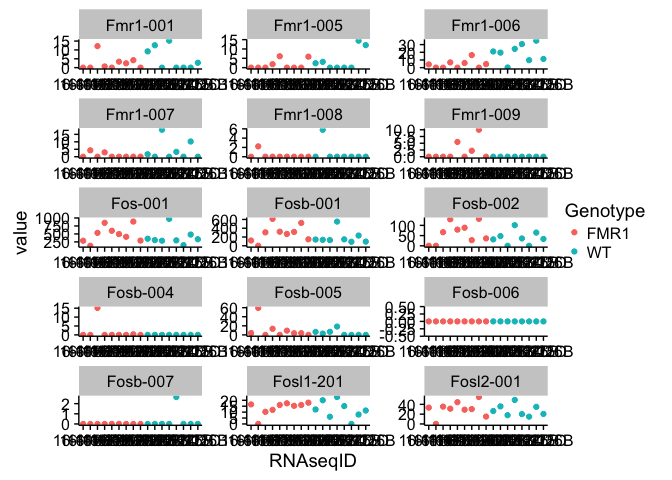
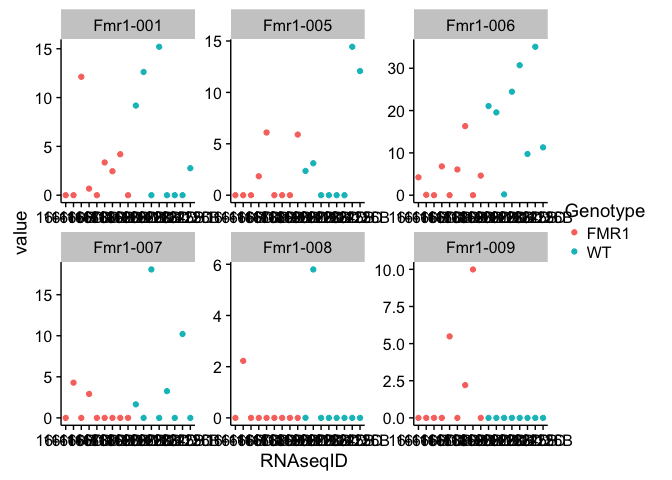
fmr1 summary

diff --git a/bin/FMR1.md b/bin/FMR1.md
@@ -621,7 +621,7 @@ fmr1
 
     fmr1 <- melt(fmr1, id=c("transcript"))
     fmr1 <- fmr1 %>%
-      dplyr::filter(grepl("Fmr1|Fos", transcript)) %>%
+      dplyr::filter(grepl("Fmr1", transcript)) %>%
       dplyr::filter(!grepl("Fmr1nb", transcript))
     fmr1 <- rename(fmr1, c("variable"="RNAseqID"))
     fmr1 <- join(fmr1, Traits, by = "RNAseqID", type = "full", match = "all")
@@ -794,19 +794,23 @@ in more details.
     ## [1] see 'cooksCutoff' argument of ?results
     ## [2] see 'independentFiltering' argument of ?results
 
-    head(resOrdered)
+    head(resOrdered,10)
 
     ## log2 fold change (MAP): Genotype FMR1 vs WT 
     ## Wald test p-value: Genotype FMR1 vs WT 
-    ## DataFrame with 6 rows and 6 columns
-    ##            baseMean log2FoldChange      lfcSE      stat       pvalue
-    ##           <numeric>      <numeric>  <numeric> <numeric>    <numeric>
-    ## Ccnd2      11.70261     -1.1331652 0.14396778 -7.870964 3.519179e-15
-    ## Fmr1       15.63877     -0.8246208 0.14496042 -5.688593 1.280906e-08
-    ## Serpina3n 133.91021     -0.5146472 0.10985625 -4.684733 2.803248e-06
-    ## Cry2      255.05935      0.4265061 0.09267342  4.602248 4.179552e-06
-    ## Faim2     885.97410     -0.2096753 0.05105200 -4.107093 4.006703e-05
-    ## Nbas       88.81008      0.5056638 0.12203019  4.143760 3.416575e-05
+    ## DataFrame with 10 rows and 6 columns
+    ##             baseMean log2FoldChange      lfcSE      stat       pvalue
+    ##            <numeric>      <numeric>  <numeric> <numeric>    <numeric>
+    ## Ccnd2       11.70261     -1.1331652 0.14396778 -7.870964 3.519179e-15
+    ## Fmr1        15.63877     -0.8246208 0.14496042 -5.688593 1.280906e-08
+    ## Serpina3n  133.91021     -0.5146472 0.10985625 -4.684733 2.803248e-06
+    ## Cry2       255.05935      0.4265061 0.09267342  4.602248 4.179552e-06
+    ## Faim2      885.97410     -0.2096753 0.05105200 -4.107093 4.006703e-05
+    ## Nbas        88.81008      0.5056638 0.12203019  4.143760 3.416575e-05
+    ## Plat        60.08070     -0.4843732 0.11722179 -4.132109 3.594499e-05
+    ## Arel1      126.96366      0.3653896 0.09040251  4.041808 5.304056e-05
+    ## Sstr3       30.99935     -0.5813751 0.14425901 -4.030078 5.575835e-05
+    ## Ctsb      1093.47092     -0.2720316 0.06848536 -3.972113 7.123788e-05
     ##                   padj
     ##              <numeric>
     ## Ccnd2     5.608164e-11
@@ -815,6 +819,10 @@ in more details.
     ## Cry2      1.665134e-02
     ## Faim2     9.121545e-02
     ## Nbas      9.121545e-02
+    ## Plat      9.121545e-02
+    ## Arel1     9.872945e-02
+    ## Sstr3     9.872945e-02
+    ## Ctsb      1.135247e-01
 
     sum(res$padj < 0.1, na.rm = TRUE) 
 
